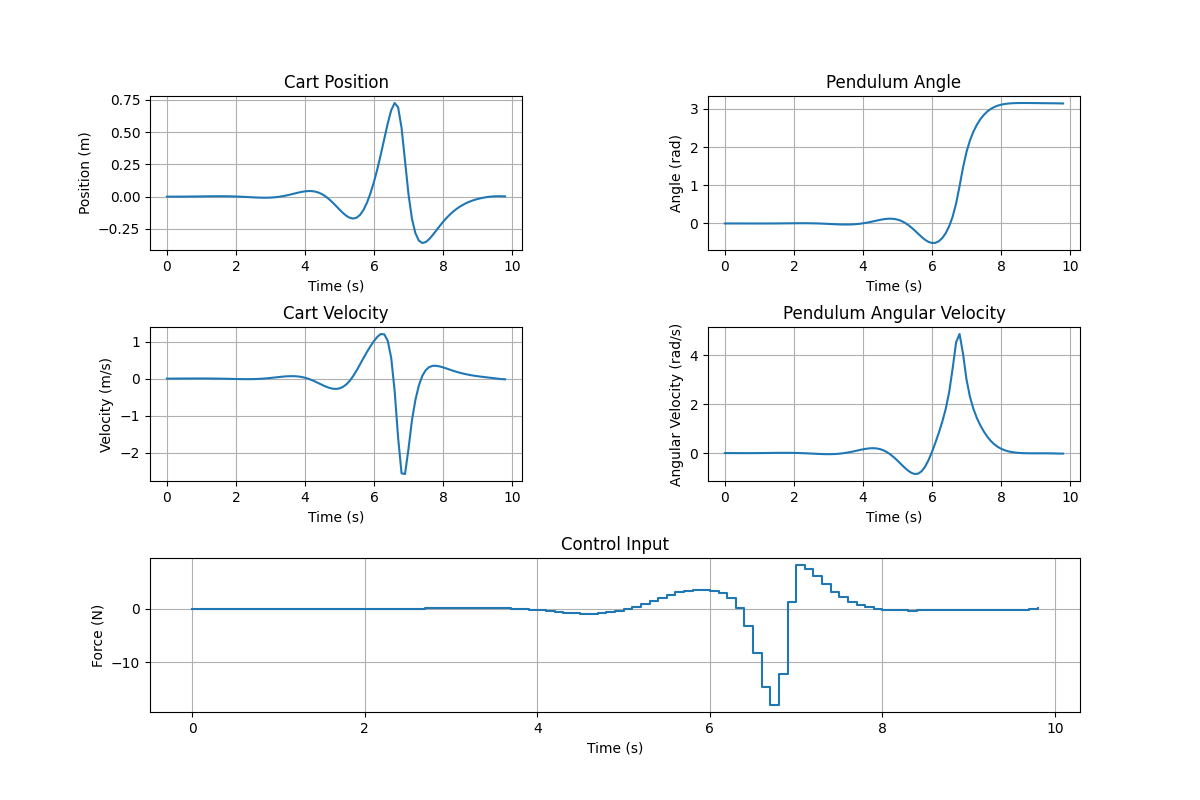
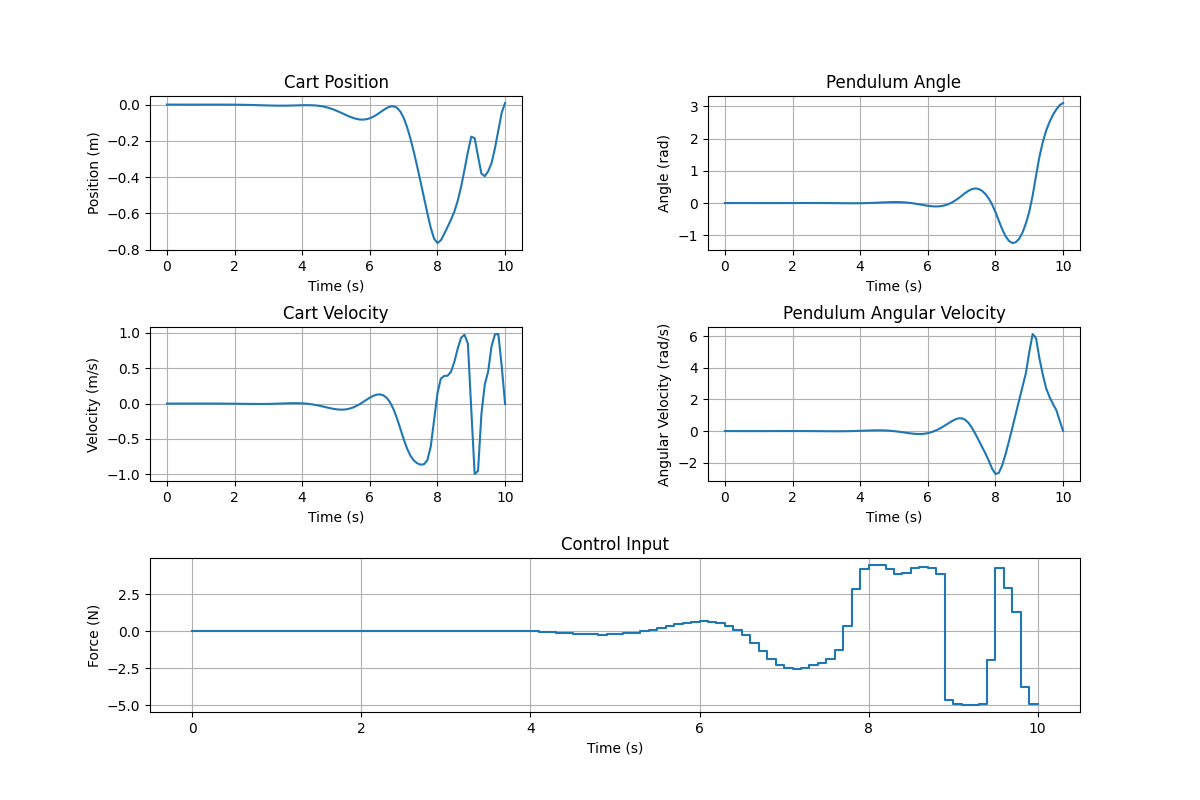
Update example

diff --git a/examples/pendulum_on_cart/src/main.cpp b/examples/pendulum_on_cart/src/main.cpp
@@ -80,7 +80,7 @@ int main(int argc, char** argv) {
 
     // Terminal state gain
     Qt.setZero();
-    Qt.diagonal() << 200.0, 200.0, 200.0, 200.0;
+    Qt.diagonal() << 200.0, 400.0, 200.0, 200.0;
 
     // Scale the running cost gains with dt so the
     // cost calculation wont change according to
@@ -168,6 +168,9 @@ int main(int argc, char** argv) {
         file << t0 + i * dt << "," << x(0) << "," << x(1) << "," << x(2) << ","
              << x(3) << "," << u(0) << std::endl;
     }
+    file << tf << "," << solution.states.back()(0) << ","
+         << solution.states.back()(1) << "," << solution.states.back()(2) << ","
+         << solution.states.back()(3) << "," << solution.controls.back()(0) << std::endl;
     file.close();
 
     return 0;

diff --git a/examples/pendulum_on_cart/scripts/animate.py b/examples/pendulum_on_cart/scripts/animate.py
@@ -76,7 +76,7 @@ def update(i):
     return cart, pendulum, time_text
 
 # Create the animation
-ani = FuncAnimation(fig, update, frames=len(t), init_func=init, blit=True, interval=dt*1000)
+ani = FuncAnimation(fig, update, frames=len(t+1), init_func=init, blit=True, interval=dt*1000)
 
 # Save the animation as a gif
 ani.save('pendulum_on_cart.gif', writer='pillow', fps=1/dt, dpi=100)
